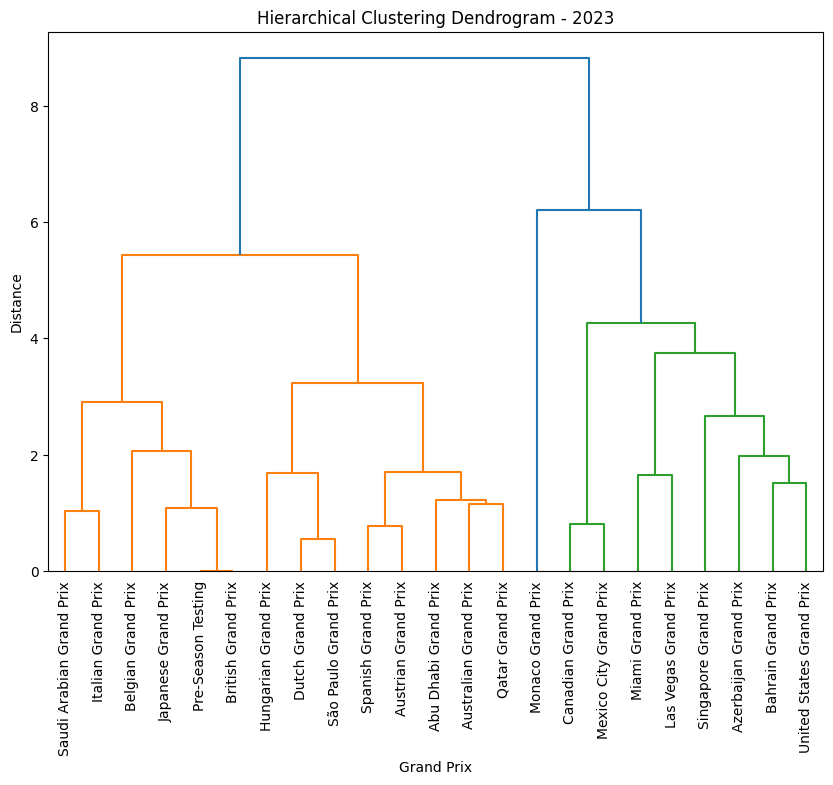
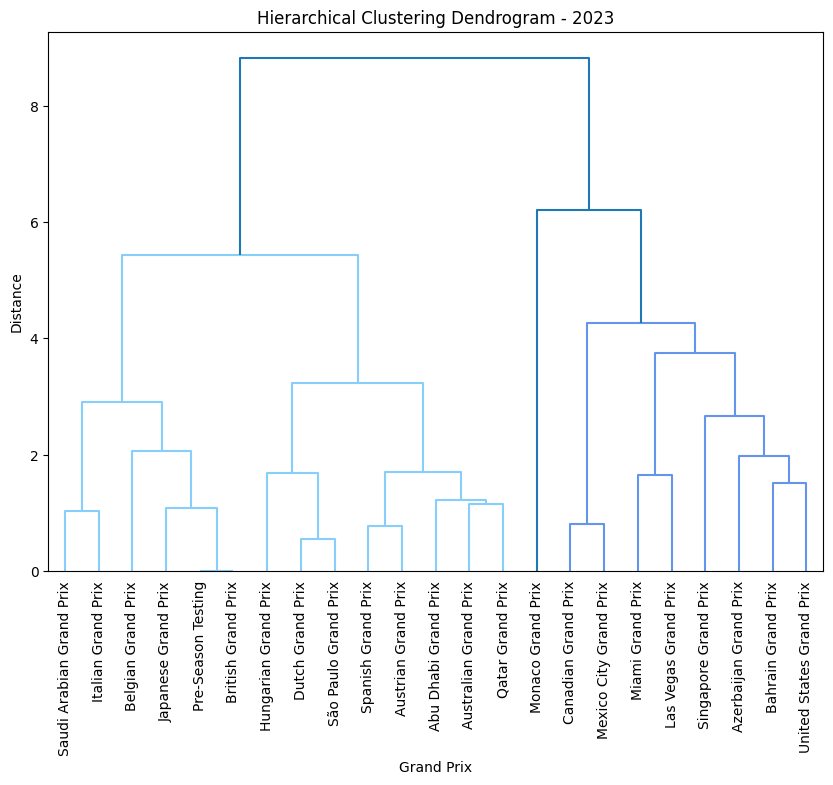
customize dendogram

diff --git a/_site/technical-details/unsupervised-learning/main.html b/_site/technical-details/unsupervised-learning/main.html
@@ -299,7 +299,7 @@ pre > code.sourceCode > span > a:first-child::before { text-decoration: underlin
 <p>If you’re using a package for code organization, you can import it at this point. However, make sure that the <strong>actual workflow steps</strong>—including data processing, analysis, and other key tasks—are conducted and clearly demonstrated on this page. The goal is to show the technical flow of your project, highlighting how the code is executed to achieve your results.</p>
 <p>If relevant, link to additional documentation or external references that explain any complex components. This section should give readers a clear view of how the project is implemented from a technical perspective.</p>
 <p>Remember, this page is a technical narrative, NOT just a notebook with a collection of code cells, include in-line Prose, to describe what is going on.</p>
-<div id="cell-3" class="cell" data-execution_count="130">
+<div id="cell-3" class="cell" data-execution_count="179">
 <div class="sourceCode cell-code" id="cb1"><pre class="sourceCode python code-with-copy"><code class="sourceCode python"><span id="cb1-1"><a href="#cb1-1" aria-hidden="true" tabindex="-1"></a><span class="co"># import required libraries</span></span>
 <span id="cb1-2"><a href="#cb1-2" aria-hidden="true" tabindex="-1"></a><span class="im">import</span> pandas <span class="im">as</span> pd</span>
 <span id="cb1-3"><a href="#cb1-3" aria-hidden="true" tabindex="-1"></a><span class="im">import</span> numpy <span class="im">as</span> np</span>
@@ -310,8 +310,9 @@ pre > code.sourceCode > span > a:first-child::before { text-decoration: underlin
 <span id="cb1-8"><a href="#cb1-8" aria-hidden="true" tabindex="-1"></a><span class="im">from</span> sklearn.metrics <span class="im">import</span> silhouette_score, calinski_harabasz_score</span>
 <span id="cb1-9"><a href="#cb1-9" aria-hidden="true" tabindex="-1"></a><span class="im">from</span> sklearn.neighbors <span class="im">import</span> NearestNeighbors</span>
 <span id="cb1-10"><a href="#cb1-10" aria-hidden="true" tabindex="-1"></a><span class="im">from</span> sklearn.preprocessing <span class="im">import</span> StandardScaler</span>
-<span id="cb1-11"><a href="#cb1-11" aria-hidden="true" tabindex="-1"></a><span class="im">from</span> scipy.cluster.hierarchy <span class="im">import</span> dendrogram, linkage, fcluster</span>
-<span id="cb1-12"><a href="#cb1-12" aria-hidden="true" tabindex="-1"></a></span></code><button title="Copy to Clipboard" class="code-copy-button"><i class="bi"></i></button></pre></div>
+<span id="cb1-11"><a href="#cb1-11" aria-hidden="true" tabindex="-1"></a><span class="im">from</span> scipy.cluster.hierarchy <span class="im">import</span> dendrogram, linkage, fcluster, set_link_color_palette</span>
+<span id="cb1-12"><a href="#cb1-12" aria-hidden="true" tabindex="-1"></a></span>
+<span id="cb1-13"><a href="#cb1-13" aria-hidden="true" tabindex="-1"></a></span></code><button title="Copy to Clipboard" class="code-copy-button"><i class="bi"></i></button></pre></div>
 </div>
 <div id="cell-4" class="cell" data-execution_count="131">
 <div class="sourceCode cell-code" id="cb2"><pre class="sourceCode python code-with-copy"><code class="sourceCode python"><span id="cb2-1"><a href="#cb2-1" aria-hidden="true" tabindex="-1"></a><span class="im">import</span> warnings</span>
@@ -564,29 +565,30 @@ pre > code.sourceCode > span > a:first-child::before { text-decoration: underlin
 <div id="cell-11" class="cell" data-execution_count="138">
 <div class="sourceCode cell-code" id="cb9"><pre class="sourceCode python code-with-copy"><code class="sourceCode python"><span id="cb9-1"><a href="#cb9-1" aria-hidden="true" tabindex="-1"></a><span class="co"># Hierarchical Clustering</span></span></code><button title="Copy to Clipboard" class="code-copy-button"><i class="bi"></i></button></pre></div>
 </div>
-<div id="cell-12" class="cell" data-execution_count="139">
-<div class="sourceCode cell-code" id="cb10"><pre class="sourceCode python code-with-copy"><code class="sourceCode python"><span id="cb10-1"><a href="#cb10-1" aria-hidden="true" tabindex="-1"></a>df <span class="op">=</span> pd.read_csv(<span class="st">"../../data/processed-data/race_track_features.csv"</span>)</span>
-<span id="cb10-2"><a href="#cb10-2" aria-hidden="true" tabindex="-1"></a>df <span class="op">=</span> df[df[<span class="st">"Year"</span>] <span class="op">==</span> <span class="dv">2023</span>]</span>
-<span id="cb10-3"><a href="#cb10-3" aria-hidden="true" tabindex="-1"></a></span>
-<span id="cb10-4"><a href="#cb10-4" aria-hidden="true" tabindex="-1"></a>features <span class="op">=</span> [<span class="st">"Track Length (m)"</span>, <span class="st">"Max Speed (km/h)"</span>, <span class="st">"Full Throttle (%)"</span>, <span class="st">"Number of Corners"</span>, <span class="st">"Number of Straights"</span>]</span>
-<span id="cb10-5"><a href="#cb10-5" aria-hidden="true" tabindex="-1"></a>X <span class="op">=</span> df[features]</span>
-<span id="cb10-6"><a href="#cb10-6" aria-hidden="true" tabindex="-1"></a></span>
-<span id="cb10-7"><a href="#cb10-7" aria-hidden="true" tabindex="-1"></a>scaler <span class="op">=</span> StandardScaler()</span>
-<span id="cb10-8"><a href="#cb10-8" aria-hidden="true" tabindex="-1"></a>X_scaled <span class="op">=</span> scaler.fit_transform(X)</span>
-<span id="cb10-9"><a href="#cb10-9" aria-hidden="true" tabindex="-1"></a></span>
-<span id="cb10-10"><a href="#cb10-10" aria-hidden="true" tabindex="-1"></a>linkage_matrix <span class="op">=</span> linkage(X_scaled, method<span class="op">=</span><span class="st">'ward'</span>)  </span>
+<div id="cell-12" class="cell" data-execution_count="182">
+<div class="sourceCode cell-code" id="cb10"><pre class="sourceCode python code-with-copy"><code class="sourceCode python"><span id="cb10-1"><a href="#cb10-1" aria-hidden="true" tabindex="-1"></a>set_link_color_palette([<span class="st">"lightskyblue"</span>, <span class="st">"cornflowerblue"</span>, <span class="st">"blue"</span>, <span class="st">"steelblue"</span>])</span>
+<span id="cb10-2"><a href="#cb10-2" aria-hidden="true" tabindex="-1"></a></span>
+<span id="cb10-3"><a href="#cb10-3" aria-hidden="true" tabindex="-1"></a>df <span class="op">=</span> pd.read_csv(<span class="st">"../../data/processed-data/race_track_features.csv"</span>)</span>
+<span id="cb10-4"><a href="#cb10-4" aria-hidden="true" tabindex="-1"></a>df <span class="op">=</span> df[df[<span class="st">"Year"</span>] <span class="op">==</span> <span class="dv">2023</span>]</span>
+<span id="cb10-5"><a href="#cb10-5" aria-hidden="true" tabindex="-1"></a></span>
+<span id="cb10-6"><a href="#cb10-6" aria-hidden="true" tabindex="-1"></a>features <span class="op">=</span> [<span class="st">"Track Length (m)"</span>, <span class="st">"Max Speed (km/h)"</span>, <span class="st">"Full Throttle (%)"</span>, <span class="st">"Number of Corners"</span>, <span class="st">"Number of Straights"</span>]</span>
+<span id="cb10-7"><a href="#cb10-7" aria-hidden="true" tabindex="-1"></a>X <span class="op">=</span> df[features]</span>
+<span id="cb10-8"><a href="#cb10-8" aria-hidden="true" tabindex="-1"></a></span>
+<span id="cb10-9"><a href="#cb10-9" aria-hidden="true" tabindex="-1"></a>scaler <span class="op">=</span> StandardScaler()</span>
+<span id="cb10-10"><a href="#cb10-10" aria-hidden="true" tabindex="-1"></a>X_scaled <span class="op">=</span> scaler.fit_transform(X)</span>
 <span id="cb10-11"><a href="#cb10-11" aria-hidden="true" tabindex="-1"></a></span>
-<span id="cb10-12"><a href="#cb10-12" aria-hidden="true" tabindex="-1"></a></span>
-<span id="cb10-13"><a href="#cb10-13" aria-hidden="true" tabindex="-1"></a>plt.figure(figsize<span class="op">=</span>(<span class="dv">10</span>, <span class="dv">7</span>))</span>
-<span id="cb10-14"><a href="#cb10-14" aria-hidden="true" tabindex="-1"></a>dendrogram(linkage_matrix, labels<span class="op">=</span>df[<span class="st">"Grand Prix"</span>].values, leaf_rotation<span class="op">=</span><span class="dv">90</span>, leaf_font_size<span class="op">=</span><span class="dv">10</span>)</span>
-<span id="cb10-15"><a href="#cb10-15" aria-hidden="true" tabindex="-1"></a>plt.title(<span class="st">"Hierarchical Clustering Dendrogram - 2023"</span>)</span>
-<span id="cb10-16"><a href="#cb10-16" aria-hidden="true" tabindex="-1"></a>plt.xlabel(<span class="st">"Grand Prix"</span>)</span>
-<span id="cb10-17"><a href="#cb10-17" aria-hidden="true" tabindex="-1"></a>plt.ylabel(<span class="st">"Distance"</span>)</span>
-<span id="cb10-18"><a href="#cb10-18" aria-hidden="true" tabindex="-1"></a>plt.show()</span>
-<span id="cb10-19"><a href="#cb10-19" aria-hidden="true" tabindex="-1"></a></span>
-<span id="cb10-20"><a href="#cb10-20" aria-hidden="true" tabindex="-1"></a>max_distance <span class="op">=</span> <span class="dv">6</span>  </span>
-<span id="cb10-21"><a href="#cb10-21" aria-hidden="true" tabindex="-1"></a>clusters <span class="op">=</span> fcluster(linkage_matrix, max_distance, criterion<span class="op">=</span><span class="st">'distance'</span>)</span>
-<span id="cb10-22"><a href="#cb10-22" aria-hidden="true" tabindex="-1"></a></span></code><button title="Copy to Clipboard" class="code-copy-button"><i class="bi"></i></button></pre></div>
+<span id="cb10-12"><a href="#cb10-12" aria-hidden="true" tabindex="-1"></a>linkage_matrix <span class="op">=</span> linkage(X_scaled, method<span class="op">=</span><span class="st">'ward'</span>)  </span>
+<span id="cb10-13"><a href="#cb10-13" aria-hidden="true" tabindex="-1"></a></span>
+<span id="cb10-14"><a href="#cb10-14" aria-hidden="true" tabindex="-1"></a>plt.figure(figsize<span class="op">=</span>(<span class="dv">10</span>, <span class="dv">7</span>))</span>
+<span id="cb10-15"><a href="#cb10-15" aria-hidden="true" tabindex="-1"></a>dendrogram(linkage_matrix, labels<span class="op">=</span>df[<span class="st">"Grand Prix"</span>].values, leaf_rotation<span class="op">=</span><span class="dv">90</span>, leaf_font_size<span class="op">=</span><span class="dv">10</span>,color_threshold<span class="op">=</span><span class="dv">6</span>)</span>
+<span id="cb10-16"><a href="#cb10-16" aria-hidden="true" tabindex="-1"></a>plt.title(<span class="st">"Hierarchical Clustering Dendrogram - 2023"</span>)</span>
+<span id="cb10-17"><a href="#cb10-17" aria-hidden="true" tabindex="-1"></a>plt.xlabel(<span class="st">"Grand Prix"</span>)</span>
+<span id="cb10-18"><a href="#cb10-18" aria-hidden="true" tabindex="-1"></a>plt.ylabel(<span class="st">"Distance"</span>)</span>
+<span id="cb10-19"><a href="#cb10-19" aria-hidden="true" tabindex="-1"></a>plt.show()</span>
+<span id="cb10-20"><a href="#cb10-20" aria-hidden="true" tabindex="-1"></a></span>
+<span id="cb10-21"><a href="#cb10-21" aria-hidden="true" tabindex="-1"></a>max_distance <span class="op">=</span> <span class="dv">6</span></span>
+<span id="cb10-22"><a href="#cb10-22" aria-hidden="true" tabindex="-1"></a>clusters <span class="op">=</span> fcluster(linkage_matrix, max_distance, criterion<span class="op">=</span><span class="st">'distance'</span>)</span>
+<span id="cb10-23"><a href="#cb10-23" aria-hidden="true" tabindex="-1"></a></span></code><button title="Copy to Clipboard" class="code-copy-button"><i class="bi"></i></button></pre></div>
 <div class="cell-output cell-output-display">
 <div>
 <figure class="figure">
